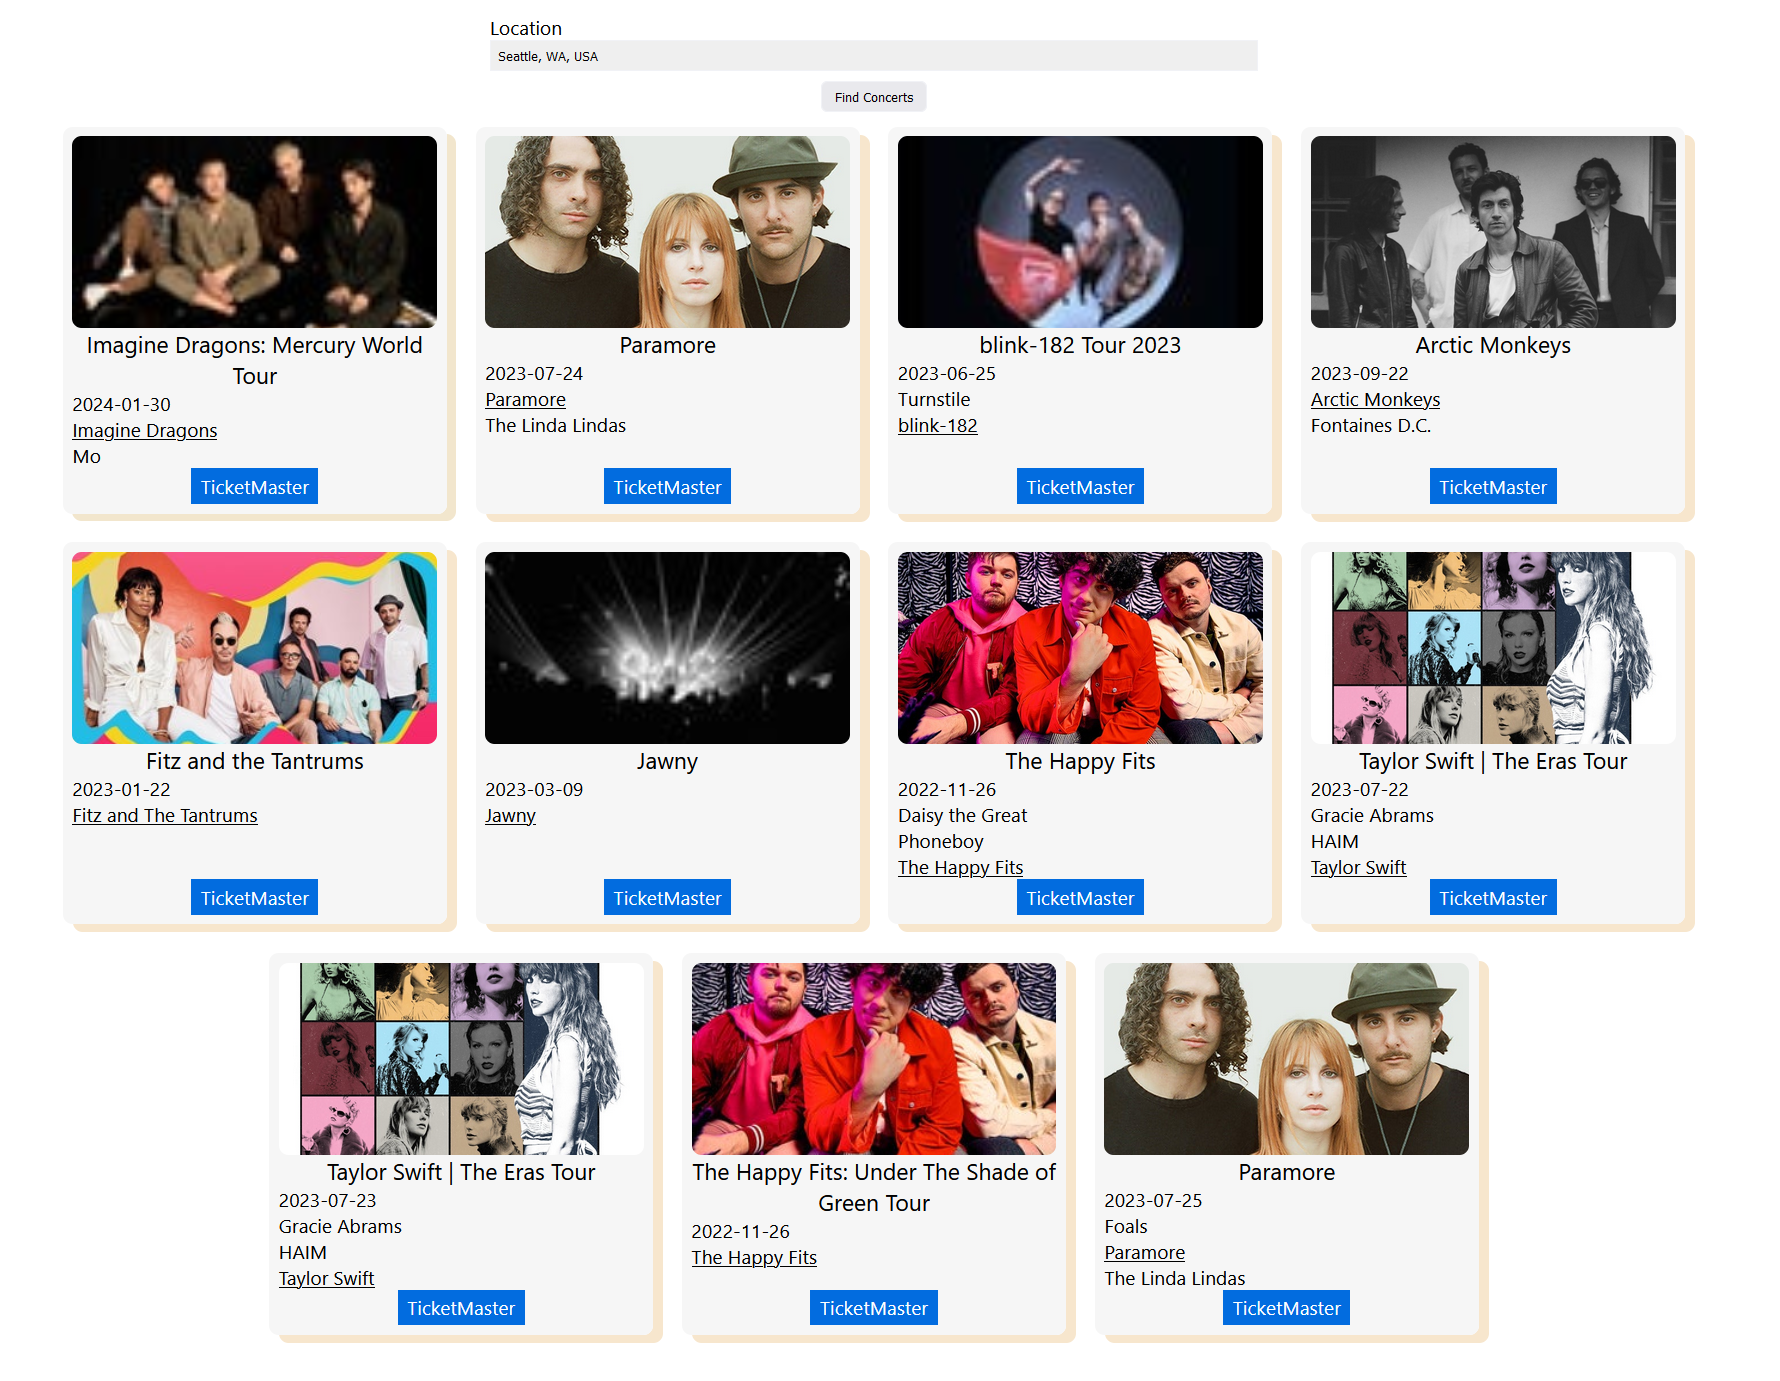
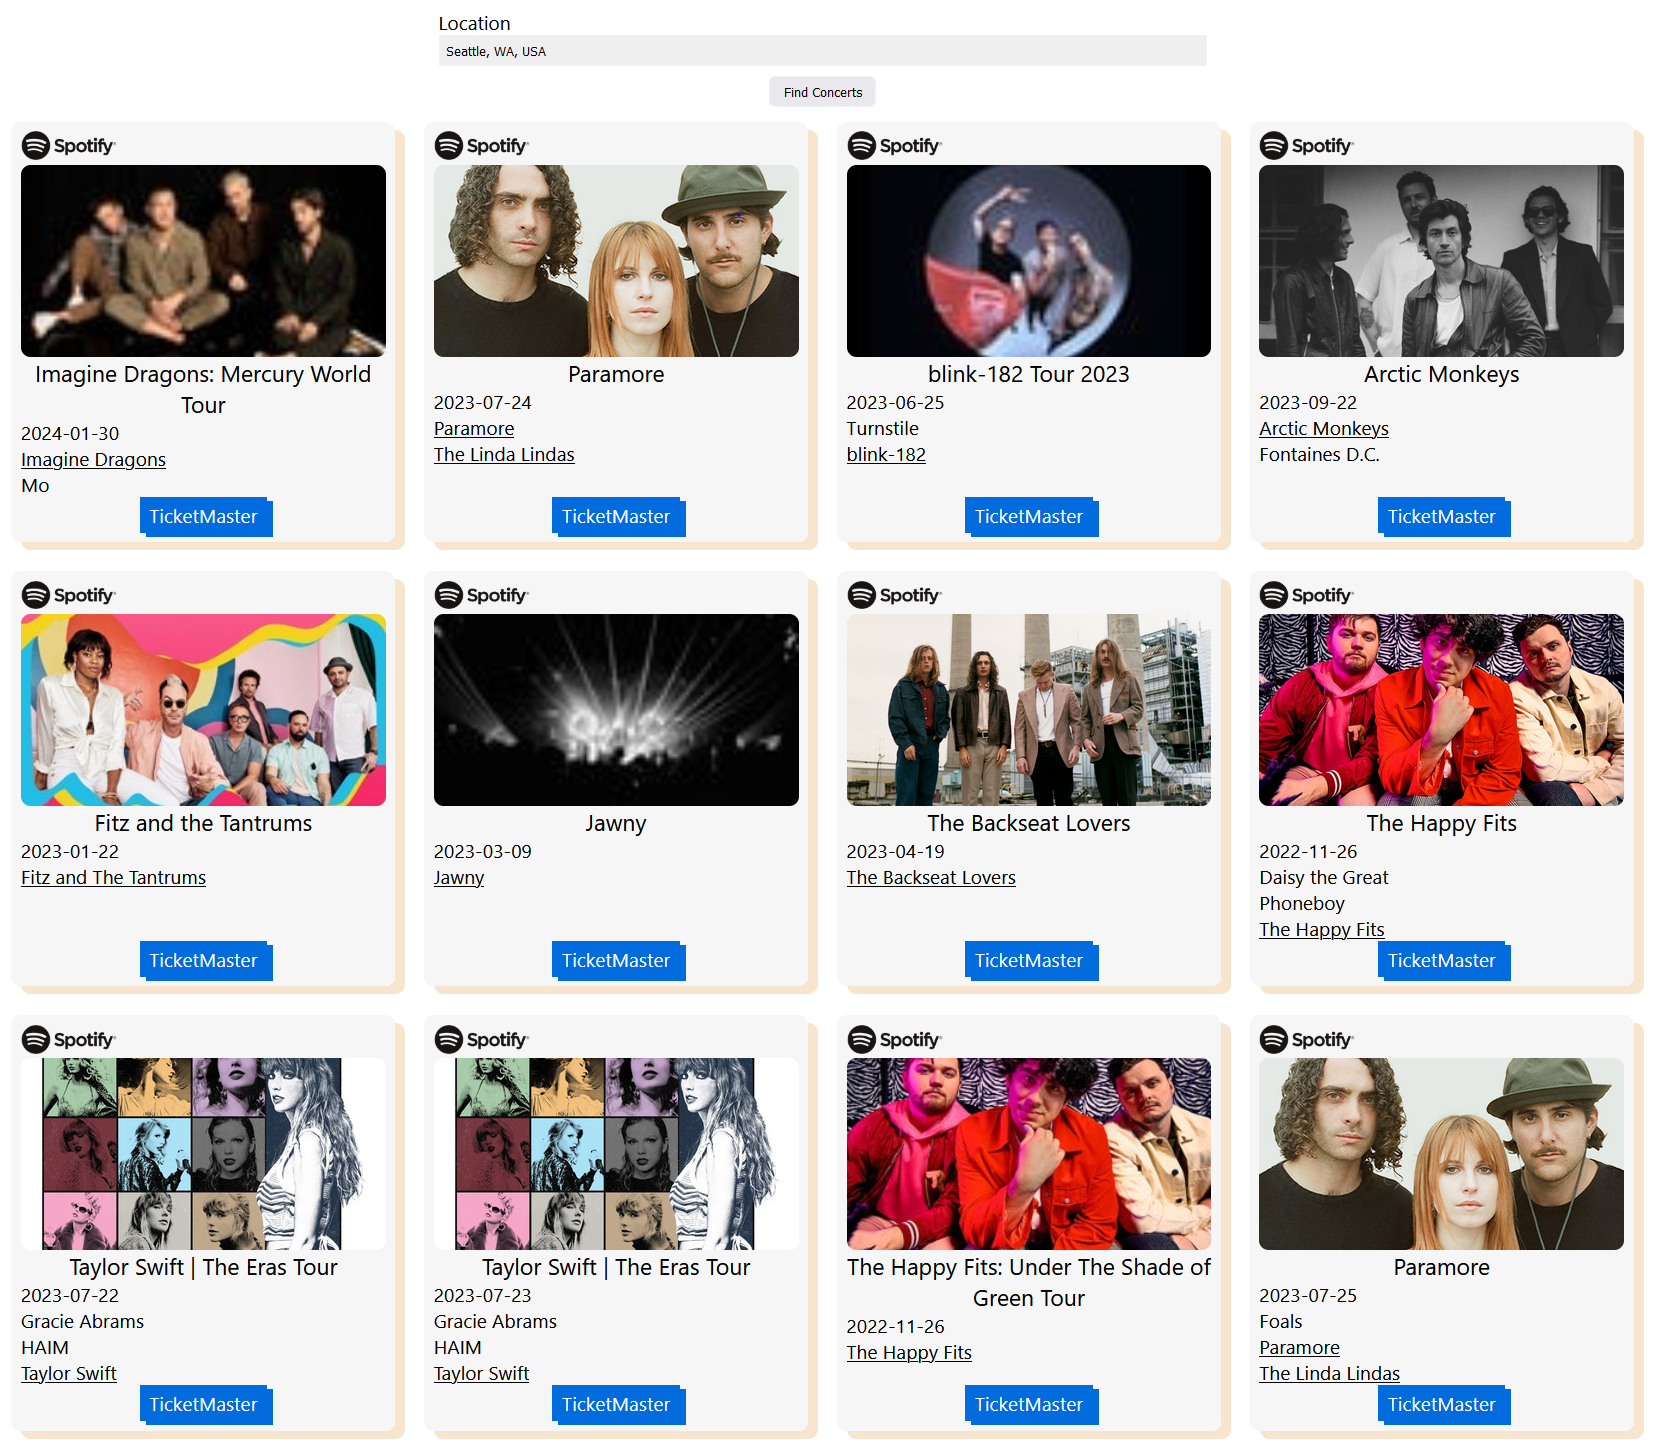
added spotify branding

diff --git a/frontend/src/App.tsx b/frontend/src/App.tsx
@@ -89,7 +89,9 @@ function App() {
                                 return (
                                     concerts[key] && (
                                         <div key={key} className={"concert-card"}>
-                                            <img src={concerts[key].images[0].url}/>
+                                            <img className={"spotify-logo"} src={"/Spotify_Logo_RGB_Black.png"}/>
+
+                                            <img className="card-header-img" src={concerts[key].images[0].url}/>
                                             <div className={"tour-name"}>{concerts[key].name}</div>
                                             <div>{concerts[key].startDate}</div>
                                             <div>
@@ -114,7 +116,10 @@ function App() {
                         Find concerts near you based on your Spotify history!
                     </h2>
                     <label className="spotify-login-button">
-                        <a href={"./oauth/v1/login"}>Login with Spotify</a>
+                        <a href={"./oauth/v1/login"}>
+                            <img src={"/Spotify_icon_RGB_White.png"}/>
+                            Login with Spotify
+                        </a>
                     </label>
                     <img src={"/frontpage-screenshot.png"}/>
                 </div>

diff --git a/frontend/src/app.scss b/frontend/src/app.scss
@@ -118,7 +118,13 @@ a:active { text-decoration: none; }
             .favorite{
                 text-decoration: underline;
             }
-            img{
+            .spotify-logo{
+                align-items: flex-start;
+                margin:0 auto .25em 0;
+                height: 1.5em;
+                object-fit: contain;
+            }
+            .card-header-img{
                 justify-self: flex-start;
                 border-radius:.5em;
                 display: block;
@@ -178,21 +184,27 @@ a:active { text-decoration: none; }
         max-width: 15em;
         color:#fff;
         transition: all 0.15s ease-in-out;
-
         a{
-            display: block;
+            display: flex;
             padding: .5em 1em;
             color:#fff;
             font-size: 1.2em;
+            flex-flow: row wrap;
+            align-items: center;
+            justify-content: center;
+            img{
+                display: inline-block;
+                height: 1.2em;
+                width: 1.2em;
+            }
             &:visited{
                 color:#fff;
             }
         }
         &:hover{
-            background: #fff;
-            a{
-                color: #1DB954;
-            }
+            border: .2em #fff solid;
+
+            box-shadow: 10px 8px #1DB954;
         }
     }
 }
